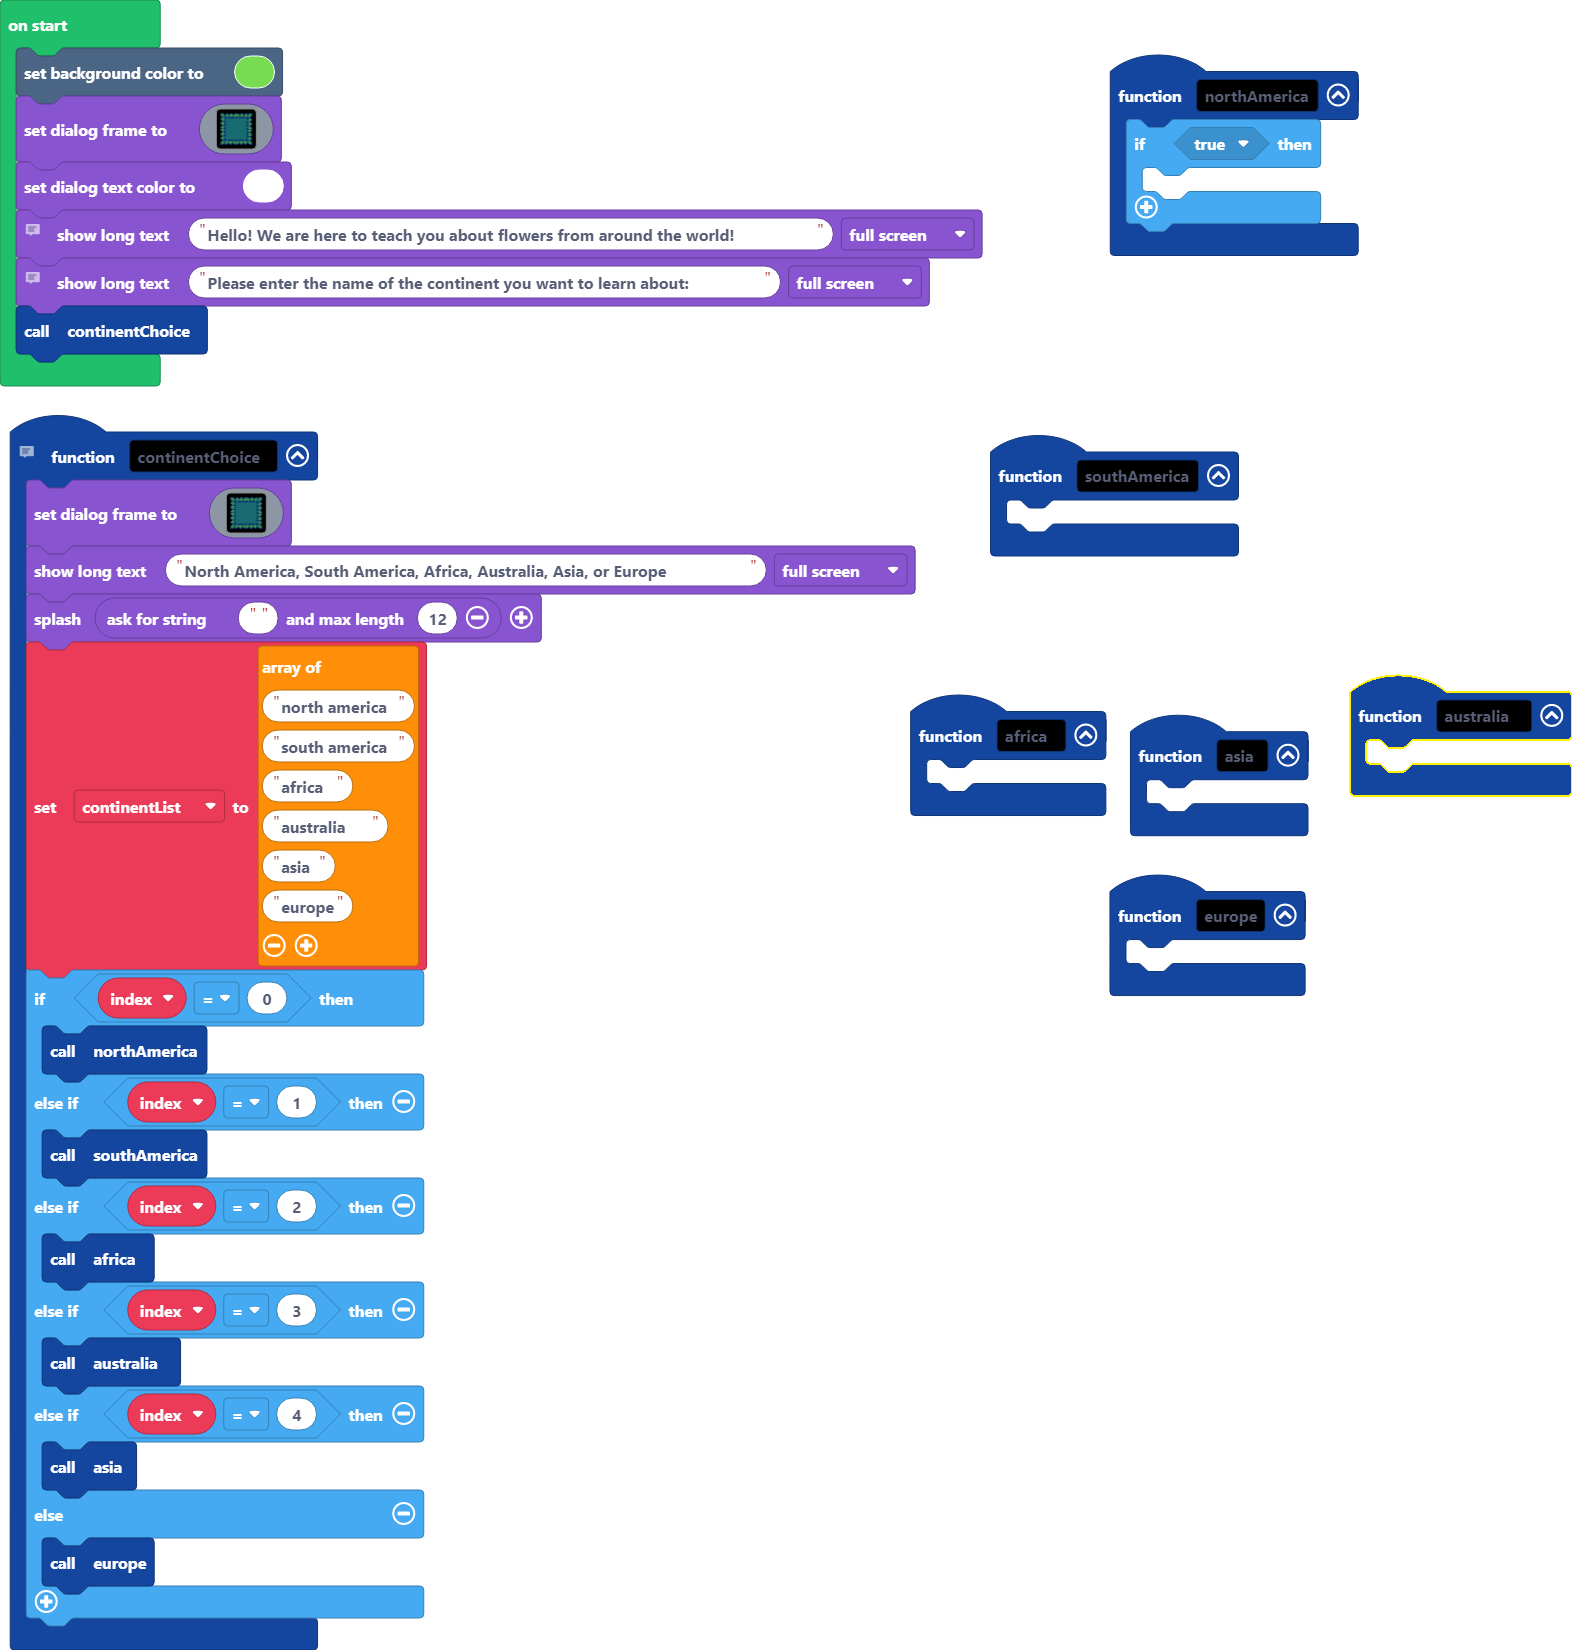
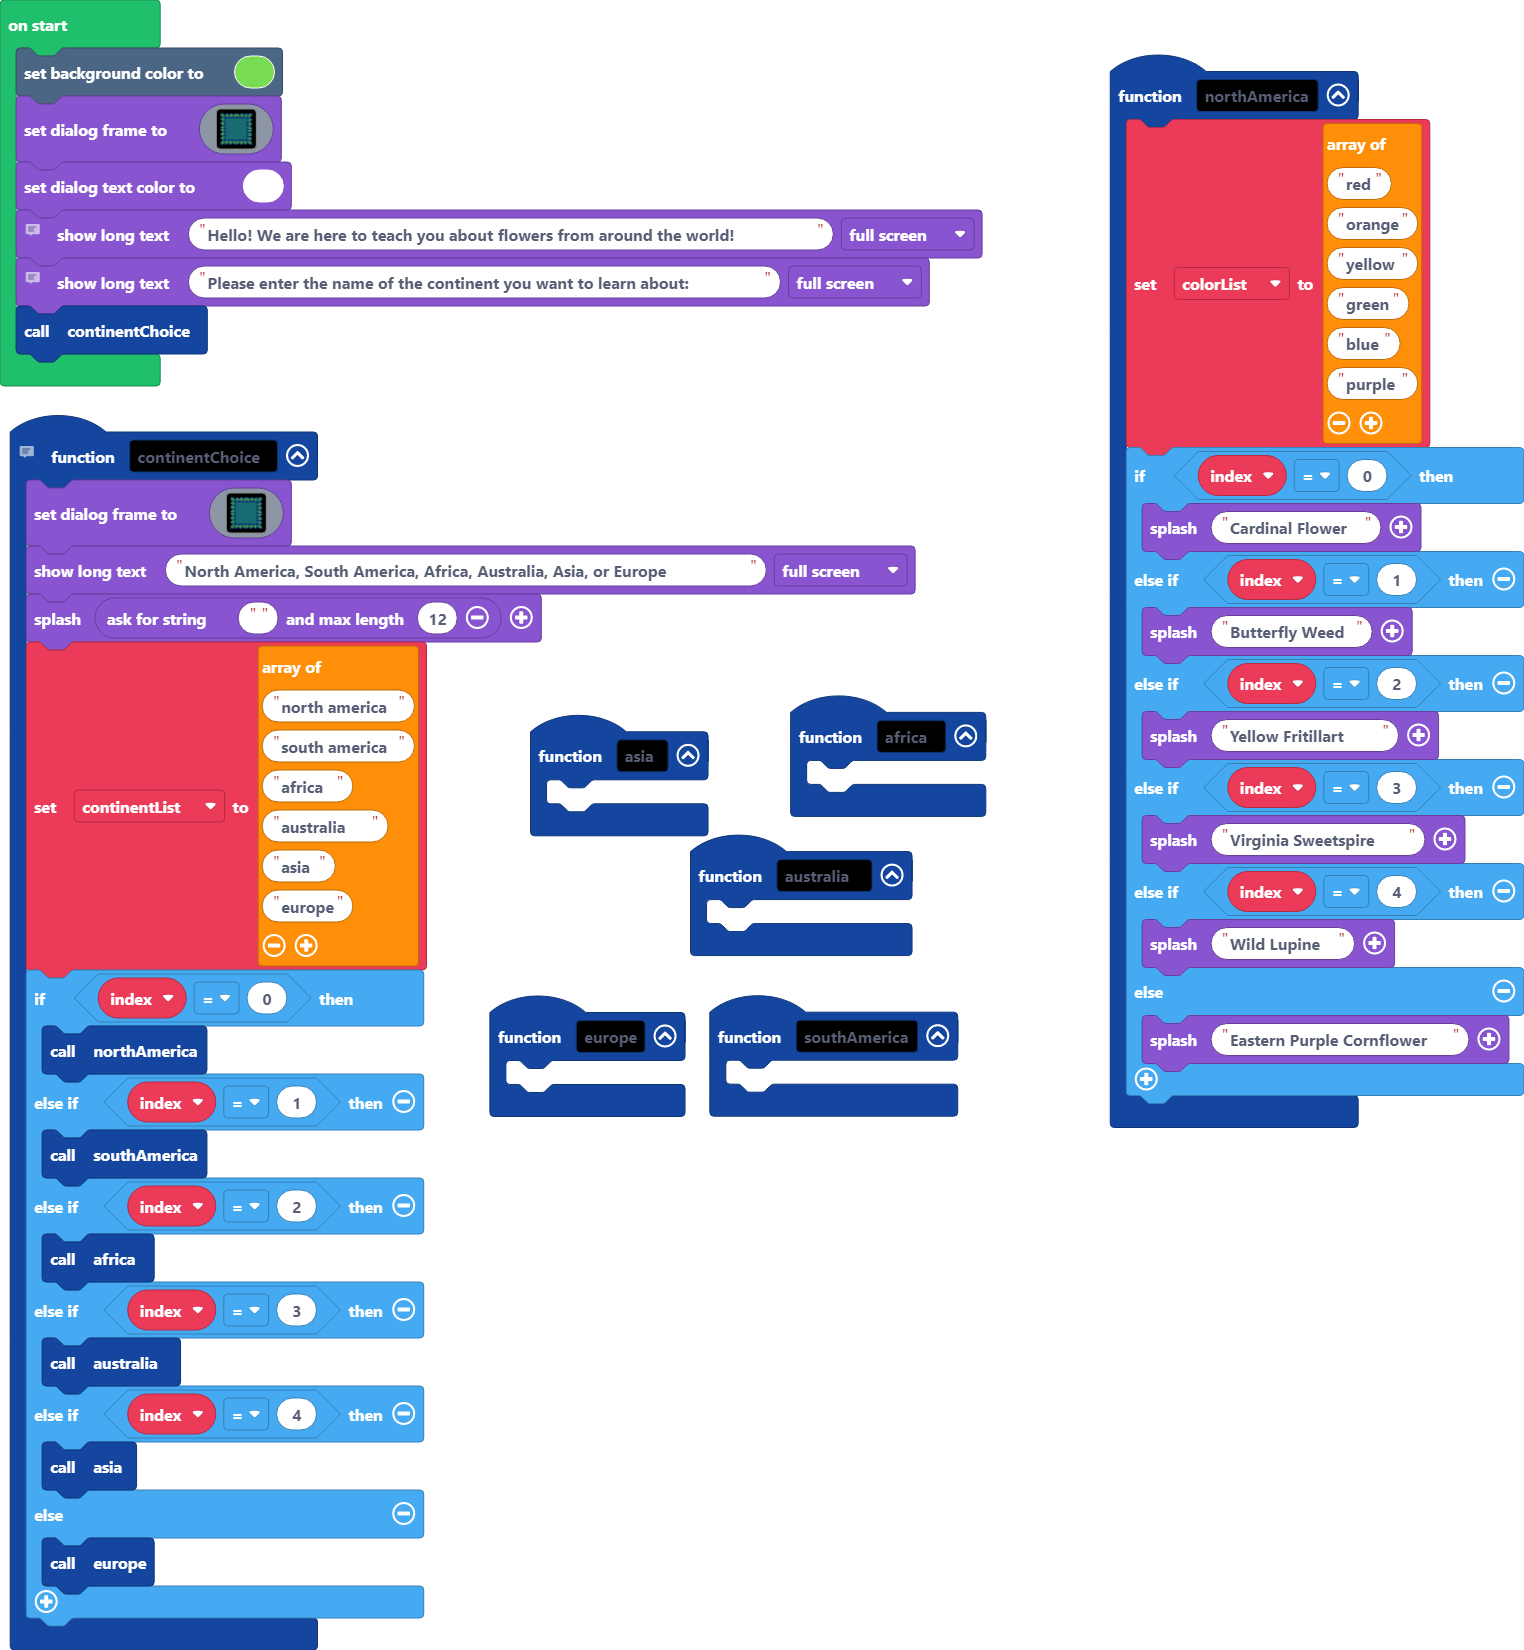
Update main.blocks, main.ts

diff --git a/main.ts b/main.ts
@@ -2,8 +2,26 @@ function asia () {
 	
 }
 function northAmerica () {
-    if (true) {
-    	
+    colorList = [
+    "red",
+    "orange",
+    "yellow",
+    "green",
+    "blue",
+    "purple"
+    ]
+    if (index == 0) {
+        game.splash("Cardinal Flower")
+    } else if (index == 1) {
+        game.splash("Butterfly Weed")
+    } else if (index == 2) {
+        game.splash("Yellow Fritillart")
+    } else if (index == 3) {
+        game.splash("Virginia Sweetspire ")
+    } else if (index == 4) {
+        game.splash("Wild Lupine ")
+    } else {
+        game.splash("Eastern Purple Cornflower")
     }
 }
 function australia () {
@@ -20,7 +38,6 @@ function africa () {
 }
 // this function takes the user to the next step and shows them the choices and asks them for a number
 function continentChoice () {
-    let index = 0
     game.setDialogFrame(img`
         8888.....88....888....88.88....888....888...8888
         867788..8768..86768..8678768..86768..8678.887768
@@ -96,6 +113,8 @@ function continentChoice () {
     }
 }
 let continentList: string[] = []
+let index = 0
+let colorList: string[] = []
 scene.setBackgroundColor(7)
 game.setDialogFrame(img`
     8888.....88....888....88.88....888....888...8888
